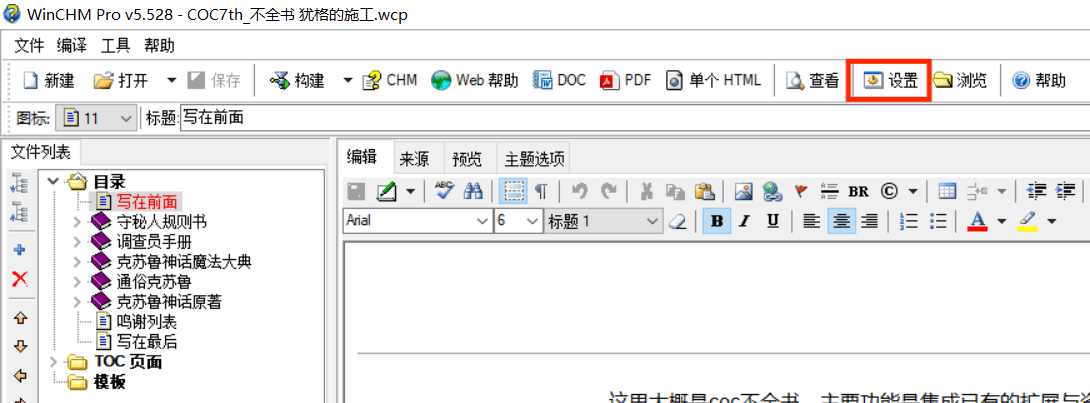
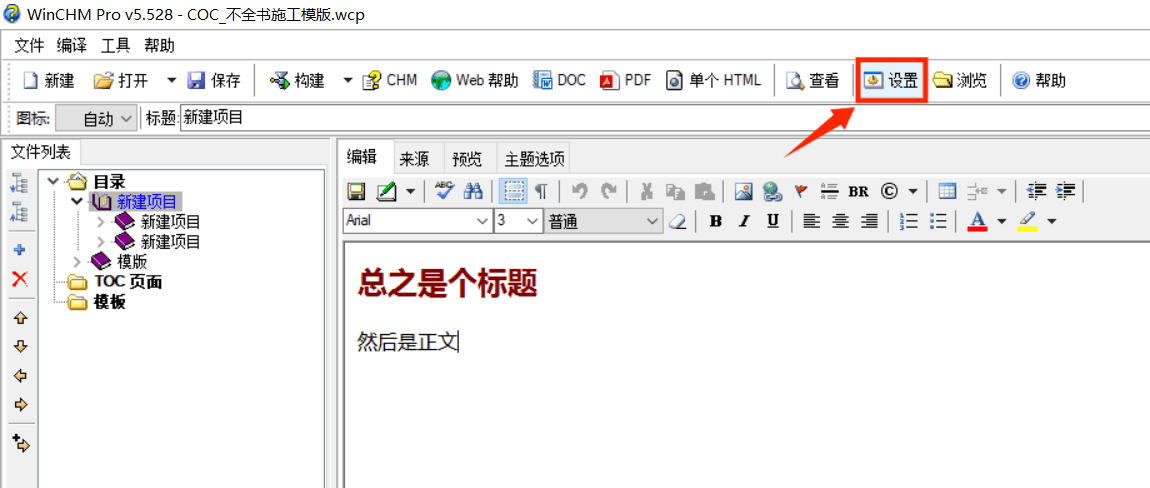
https://github.com/COC7thChm/COC7thChm-helpdocchm.git

Changed region(s): [[0.0, 0.0, 1.0, 1.0], [0.5615, 0.9529, 1.0, 1.0]]

diff --git a/github/在 github 网站上传编辑文件.htm b/github/在 github 网站上传编辑文件.htm
@@ -23,30 +23,30 @@ href="https://Github.com/PAKTS/CoC-Necronomicon">https://Github.com/PAKTS/CoC-Ne
 <P>1.首先，来到不全书库： <A 
 href="https://Github.com/PAKTS/CoC-Necronomicon">https://Github.com/PAKTS/CoC-Necronomicon</A></P>
 <P>然后点击左上方的【Fork】，然后在弹出来的弹窗里点击【Create a new fork】。</P>
-<P><IMG border=1 alt="" src="images/21.png" width="50%"></P>
+<P><IMG border=1 alt="" src="images/21.png" width="70%"></P>
 <P>2.然后弹出这个界面，然后点击【Create fork】按钮。</P>
-<P><IMG border=1 alt="" src="images/22.png" width="50%"></P>
+<P><IMG border=1 alt="" src="images/22.png" width="70%"></P>
 <P>之后会弹出一个仓库界面，当下方图片两个框的位置里，是你的用户名时，你仓库复制成功了。</P>
-<P><IMG border=1 alt="" src="images/33.png" width="50%"></P>
+<P><IMG border=1 alt="" src="images/33.png" width="70%"></P>
 <H2>二.如何在 Github 网站上编辑文件</H2>
 <P>直接在 Github 上面编辑文件相对较复杂，步骤也相对繁琐，我们更推荐在 WinCHM 编辑文件后，再往 
 Github 库里上传新的文件。但我们依然会教你如何在 Github 网站上直接编辑文件。</P>
 <P>1.首先点入你想编辑的文件。点击右上方的笔，就可以开始进行编辑了。</P>
-<P><IMG border=1 alt="" src="images/23.png" width="50%"></P>
+<P><IMG border=1 alt="" src="images/23.png" width="70%"></P>
 <P>2.编辑完后，点击右上方的【Commit changes】按钮。</P>
-<P><IMG border=1 alt="" src="images/24.png" width="50%"></P>
+<P><IMG border=1 alt="" src="images/24.png" width="70%"></P>
 <P>3.之后会弹出这个窗口，然后点击绿色的【Commit changes】按钮。</P>
-<P><IMG border=1 alt="" src="images/25.png" width="50%"></P>
+<P><IMG border=1 alt="" src="images/25.png" width="70%"></P>
 <P>这样就成功修改文件了。</P>
-<P><IMG border=1 alt="" src="images/26.png" width="50%"></P>
+<P><IMG border=1 alt="" src="images/26.png" width="70%"></P>
 <H2>三.如何在 Github 网站上编辑文件</H2>
 <P>1.首先点入你想上传文件的文件夹，先点击右上方的【Add file】，然后在新弹出的弹窗里点击【Upload 
 files】。</P>
-<P><IMG border=1 alt="" src="images/27.png" width="50%"></P>
+<P><IMG border=1 alt="" src="images/27.png" width="70%"></P>
 <P>2.跳转至下方界面后，打开你电脑的文件夹，选中你要上传的文件，拖至虚线框内。</P>
-<P><IMG border=1 alt="" src="images/28.png" width="50%"></P>
+<P><IMG border=1 alt="" src="images/28.png" width="70%"></P>
 <P>3.等文件传输完毕后，滚动鼠标至网页下方，点击绿色的【Commit changes】按钮。</P>
-<P><IMG border=1 alt="" src="images/29.png" width="50%"></P>
+<P><IMG border=1 alt="" src="images/29.png" width="70%"></P>
 <P>之后正常回到仓库主页时，就说明上传文件成功了。</P>
 <H2>四.在网站里新建文件夹或将文件拖入制定的文件夹里</H2>
 <P>Github 网页端不能上传整个文件夹，下面介绍一下如何在 Github 
@@ -54,33 +54,33 @@ files】。</P>
 <P>注意：Github 网页端无法新建空白文件夹。</P>
 <P>1.首先，新建一个文件，或者点入你想放进文件夹里的文件。</P>
 <P>2.然后进入编辑模式，找到编辑框左上方的文件名，在这个蓝框里你可以编辑文件名。</P>
-<P><IMG border=1 alt="" src="images/34.png" width="50%"></P>
+<P><IMG border=1 alt="" src="images/34.png" width="70%"></P>
 <P>3.然后输入 “<STRONG>你想放进去的文件夹或新建的文件夹名字 / 
 ”</STRONG>(不要带引号)。</P>
-<P><IMG border=1 alt="" src="images/37.png" width="50%"></P>
+<P><IMG border=1 alt="" src="images/37.png" width="70%"></P>
 <P>4.然后可以看见文件名前面多了一个文件夹。</P>
-<P><IMG border=1 alt="" src="images/35.png" width="50%"></P>
+<P><IMG border=1 alt="" src="images/35.png" width="70%"></P>
 <P>5.最后点击保持，就成功了。</P>
-<P><IMG border=1 alt="" src="images/36.png" width="50%"></P>
+<P><IMG border=1 alt="" src="images/36.png" width="70%"></P>
 <P>反之如果你想删掉文件夹或者将文件从文件夹里取出，在编辑文件名一栏里输入<STRONG>“../”</STRONG> 
 (不要带引号)。</P>
 <H2>五.删除库里面的文件跟文件夹</H2>
 <P>1.点开你想删掉的文件或者文件夹。</P>
 <P>2.然后点击右上方的【...】按钮。</P>
 <P>3.在新弹窗里选择【Delete directory】，然后保存文件。</P>
-<P><IMG border=1 alt="" src="images/37.png" width="50%"> 
+<P><IMG border=1 alt="" src="images/37.png" width="70%"> 
 </P>
 <H2>六.发送合并请求</H2> 
 <P>以上步骤均只在你仓库里运行，主仓库并没有受到修改，如果想将你的修改穿到主仓库得向主仓库发送合并请求。</P>
 <P>1.首先来到你仓库的主界面。在主页面中点击【Contribute】按钮。</P>
 <P>然后在弹出的新按钮里点击绿色的【Open pull request】按钮。</P>
-<P><IMG border=1 alt="" src="images/30.png" width="50%"></P>
+<P><IMG border=1 alt="" src="images/30.png" width="70%"></P>
 <P>2.之后便会进入这个界面，在蓝框里填写你修改的情况。然后点击【Open pull request】。</P>
-<P><IMG border=1 alt="" src="images/31.png" width="50%"></P>
+<P><IMG border=1 alt="" src="images/31.png" width="70%"></P>
 <P>3.之后便会来到这个界面，当出现红框里面的内容时，就说明可以顺利合并了，等待管理员审核同意就可以了。</P>
-<P><IMG border=1 alt="" src="images/32.png" width="50%"> </P>
+<P><IMG border=1 alt="" src="images/32.png" width="70%"> </P>
 <H2>六.与主文件同步 </H2>
 <P>从主文件库里 frok 出来的文件是无法自动共享主文件库的更新的，这个需要我们手动跟主文件同步。 </P>
 <P>来到你仓库的主页面，然后点击【Sync frok】 </P>
-<P><IMG border=1 alt="" src="images/45.png" width="50%"> </P></STRONG></body>
+<P><IMG border=1 alt="" src="images/45.png" width="70%"> </P></STRONG></body>
 </html>

diff --git a/Winchm/新建项目.htm b/Winchm/新建项目.htm
@@ -14,16 +14,76 @@ html,body {
 
 <body>
 <P><STRONG><FONT color=#800000 size=5>新建项目</FONT></STRONG></P>
-<P>首先，将不全书原有的 wcp改名，改为【COC7th_不全书 
-你的施工现场】。这是为了方便你可以一直拿这个文件施工，也是为了避免合并时跟主仓库冲突。</P>
-<P><IMG alt="" src="images/4.png"> </P>
-<P> 然后点开wcp文件。可以来到这个界面。</P>
-<P><IMG alt="" src="images/5.png"> </P>
+<P>1.首先，在新装的不全书库里找到【COC_不全书施工模版】，右键选择重命名，将其改为【COC7th_不全书 你的施工现场】。这是为了方便你可以一直拿这个文件施工，也是为了避免合并时跟主仓库冲突。</P>
+<P><IMG border=1 src="images/4.png" width="70%"> </P>
+<P>2.然后点开wcp文件。可以来到这个界面。</P>
+<P><IMG border=1 src="images/5.png" width="70%"></P>
+<H2>更改默认模版</H2>
+<P> </P>
 <P>我们先更改 winchm 的默认空白模版。</P>
-<P>先点击上方的【设置】</P>
-<P><IMG alt="" src="images/6.png"></P>
-<P>然后在新弹出的窗口里，当创建一个新的主体内，勾选是是不是【自定义页面】，文件名里是否有“模版\空白页模版.htm”的内容。</P>
-<P>&nbsp;</P>
-<P>如果没有的话，</P>
+<P>1.点击上方的【设置】。</P>
+<P><IMG border=1 src="images/6.png" width="70%"></P>
+<P>2.然后在新弹出的窗口里，当创建一个新的主体内，勾选是是不是【自定义页面】，文件名里是否有“模版\空白页模版.htm”的内容。</P>
+<P>如果没有的话，勾选自定义页面，然后点击文件名右边的【...】，选中“空白页模版.htm”，然后点击确认。</P>
+<P><IMG border=1 src="images/7.png" width="70%"></P>
+<H2>创建新页面</H2>
+<P>1.来到左侧的目录栏，右键点击【新建项目】。然后在弹窗内点击【添加之后】。</P>
+<P><IMG border=1 src="images/8.png" width="70%"></P>
+<P>2.然后就会弹窗这个界面。如果弹出的是这个页面的话，就说明你可以继续施工了，如果不是，请回到上一步：更改默认模版。</P>
+<P><IMG border=1 src="images/9.png" width="70%"></P>
+<H2>正式编辑</H2>
+<P>完成上面的步骤后，我们可以开始正式编辑了，下面我们拿编辑《喵苏鲁的呼唤》的过程为例。</P>
+<P>先要打开我们要复制的文档。</P>
+<P><IMG border=1 src="images/10.png" width="70%"></P>
+<P>
+<TABLE style="WIDTH: 100%; BORDER-COLLAPSE: collapse" borderColor=#000000 
+cellSpacing=0 cellPadding=2 width="100%" bgColor=#fffbf0 border=1><TR>
+<TD>
+<H3>注意事项</H3>
+<P>
+<FONT style="BACKGROUND-COLOR: #fffbf0" >一般来讲，主流上的 COC 相关的书籍都是用 PDF 格式，直接将 PDF 
+      内的文字复制过去，文段经常是分割成一行一行的，编辑起来十分麻烦。</FONT></P>
+<P><FONT style="BACKGROUND-COLOR: #fffbf0">目前推荐的办法是先把 
+      pdf 转为 word 格式，这样的话将文段贴过来时不至于分割成一行一行的了，但是暴力转换成 word 
+      格式可能会出现文章乱码乱序的问题，遇到乱码时请自行校对 PDF 原版内的内容。</FONT></P>
+<P><FONT style="BACKGROUND-COLOR: #fffbf0">如果是复制果园的内容的话，群内有直接将果园帖子文字转成 htm 
+      文件的工具。</FONT></P></TD></TR></TABLE></P>
+<H3>一.更改页面标题</H3>
+<P>右键点击页面，再点击更改标题，就可以更改页面名字了。</P>
+<P><IMG border=1 src="images/11.png" width="70%"></P>
+<H3>二.将文本复制过来</H3>
+<P>首先复制你要的文本。</P>
+<P><IMG border=1 src="images/12.png" width="70%"></P>
+<P>然后选中正文，右键贴贴。</P>
+<P><IMG border=1 alt="" src="images/33.png" width="50%"></P>
+<P>就可以看到我们把内容复制过来了，但是文字的格式还是保留 word 
+文档的格式，不是我们想要的格式，如果文章的格式不统一，这会导致不全书阅读起来十分难看。这就要我们多走一道流传，把文字的属性洗一遍。</P>
+<P><IMG border=1 src="images/13.png" width="70%"></P>
+<P>我们先新建一个笔记本，先将复制的内容贴到这里面。可以看到这段内容失去了它原有的格式。</P>
+<P><IMG border=1 src="images/14.png" width="70%"></P>
+<P>然后我们再剪切笔记本内要复制的这段内容。</P>
+<P><IMG border=1 src="images/15.png" width="70%"></P>
+<P>然后再回到 winchm 将内容贴贴上去，可以看到文字已经变成我们的默认文字了。</P>
+<P><IMG border=1 src="images/16.png" width="70%"></P>
+<H3>三.更改标题</H3>
+<P>接下来，将会叫你如果更改页面内红色的标题。</P>
+<P>首先选中原文标题的部分，然后剪切。</P>
+<P><IMG border=1 src="images/17.png" width="70%"></P>
+<P>然后点击上方栏目中的来源。看这个界面的原代码。</P>
+<P><IMG border=1 src="images/18.png" width="70%"></P>
+<P><IMG border=1 src="images/19.png" width="70%"></P>
+<P><IMG border=1 src="images/20.png" width="70%"></P>
+<P><IMG border=1 src="images/21.png" width="70%"></P>
+<P><IMG border=1 src="images/22.png" width="70%"></P>
+<P><IMG border=1 src="images/23.png" width="70%"></P>
+<P><IMG border=1 src="images/24.png" width="70%"></P>
+<P><IMG border=1 src="images/25.png" width="70%"></P>
+<P><IMG border=1 src="images/26.png" width="70%"></P>
+<P><IMG border=1 src="images/27.png" width="70%"></P>
+<P><IMG border=1 src="images/28.png" width="70%"></P>
+<P><IMG border=1 src="images/29.png" width="70%"></P>
+<P><IMG border=1 src="images/30.png" width="70%"></P>
+<P><IMG border=1 src="images/31.png" width="70%"></P>
+<P><IMG border=1 src="images/32.png" width="70%"></P>
 </body>
 </html>

diff --git a/github/利用git上传编辑文件.htm b/github/利用git上传编辑文件.htm
@@ -43,56 +43,56 @@ href="https://Github.com/stayor/git-gui-zh">https://Github.com/stayor/git-gui-zh
 <P>2.然后点击右上方的【代码（code）】，然后你可以看到 HTTPS 下有一串网址，这就是你的 Github 
 库的网站地址，点击右边的那个方块，就可以复制你的储存库地址了。       
 </P>
-<P><IMG border=1 alt="" src="images/50.png" width="50%">       
+<P><IMG border=1 alt="" src="images/50.png" width="70%">       
 </P>
 <H2>  四.利用 Git Gui 克隆文件&nbsp;&nbsp;       
 </H2>
 <P>  1.然后在随便什么地方右键，在弹窗中点击【Open GIt GUI here】。       </P>
-<P><IMG border=1 alt="" src="images/51.jpeg" width="50%"></P>
+<P><IMG border=1 alt="" src="images/51.jpeg" width="70%"></P>
 <P>2.然后在 Git Gui 弹窗内选择【克隆已有版本库】。</P>
-<P><IMG border=1 alt="" src="images/52.png" width="50%"></P>
+<P><IMG border=1 alt="" src="images/52.png" width="70%"></P>
 <P>3.然后参考上方的<STRONG>复制 Github 
 库的网站地址</STRONG>  
 ，将你的储藏库网址贴贴到【源位置】旁边，然后在【目标目录】旁边，先输入你要储藏的地方（如 D 
 盘：D:/），然后再输入一个新名字（要确保你要存的地方不存在这个文件），然后点击下方的克隆。</P>
-<P><IMG border=1 alt="" src="images/53.png" width="50%"></P>
+<P><IMG border=1 alt="" src="images/53.png" width="70%"></P>
 <P>4.当出现这个界面时，就说明你克隆成功了。你接下来就可以在本地编辑仓库的内容了。跟本地电脑一致。</P>
-<P><IMG border=1 alt="" src="images/54.png" width="50%"></P>
+<P><IMG border=1 alt="" src="images/54.png" width="70%"></P>
 <H2>四.利用 Git Gui 上传更改</H2>
 <P>1.首先，你要用右键点击你要上传修改的文件夹，在弹窗中点击【Open GIt GUI here】。 
 然后他会弹出下面的页面，右上方的框内会显示你修改了那些文件。如果显示没有改动的话先点击如何重新扫描，这样他就会刷新界面了。</P>
 <P>2.然后选择缓存改动，正常的话未缓存的改动的框内的内容会消失，已缓存的改动里会显示你更改的文件目录。</P>
-<P><IMG border=1 alt="" src="images/55.png" width="50%"></P>
+<P><IMG border=1 alt="" src="images/55.png" width="70%"></P>
 <P>3.然后在提交右边的白框里写上你改动了什么，然后点击【提交】。</P>
-<P><IMG border=1 alt="" src="images/56.png" width="50%"></P>
+<P><IMG border=1 alt="" src="images/56.png" width="70%"></P>
 <P>4.提交后点击【上传】，然后在新弹出的弹窗内再次点击【上传】。</P>
-<P><IMG border=1 alt="" src="images/57.png" width="50%"></P>
+<P><IMG border=1 alt="" src="images/57.png" width="70%"></P>
 <P>5.当新弹窗是这个结果时，就说明你修改成功了。</P>
-<P><IMG border=1 alt="" src="images/58.png" width="50%"></P>
+<P><IMG border=1 alt="" src="images/58.png" width="70%"></P>
 <H2>五.用 Git Gui 更新本地储藏库</H2>
 <P>本地的储藏库无法自动更新网络不全书主库的内容，这需要我们手动更新。</P>
 <P>点击上方的【远程库】，然后选择【从...获取】，最后点击【origin】就好了。</P>
-<P><IMG border=1 alt="" src="images/59.jpeg " width="50%"></P>
+<P><IMG border=1 alt="" src="images/59.jpeg " width="70%"></P>
 <H2>六.在 Visual Code 里直接上传文件</H2>
 <P>如果你是用 Visual Code 来辅助编辑文件的话，下载 git 后，Visual Code 
 会侧栏会出现一个跟树枝一样的东西，这个代表 Visual Code&nbsp;成功装上了&nbsp;Git 插件，你可以在 Visual Code 内直接上传文件了。</P>
-<P><IMG border=1 alt="" src="images/60.png" width="50%"></P>
+<P><IMG border=1 alt="" src="images/60.png" width="70%"></P>
 <P>但有时会出现他一直上传但没成功的情况，这是因为你的 Visual Code&nbsp;限制了 Git 
 上传文件的行为，这个时候要你改 Visual Code&nbsp;的设置。</P>
 <P>1.首先，点击 Visual Code&nbsp;右下方的齿轮，然后点击【设置】。</P>
-<P><IMG border=1 alt="" src="images/61.png" width="50%"></P>
+<P><IMG border=1 alt="" src="images/61.png" width="70%"></P>
 <P>2.然后在设置界面的搜索框里面搜索“Use Editor As Commit 
 Input”，然后将下方红框内的勾选取消掉。</P>
-<P><IMG border=1 alt="" src="images/62.png" width="50%"></P>
+<P><IMG border=1 alt="" src="images/62.png" width="70%"></P>
 <P>3.然后再次点击 Git 
 插件按钮，点击【提交】，接下来会弹出搜索框填入你提交的仓库网站，在红框内填入你储藏库的网址，然后回车。关于如何获得自己的储藏库网站，参考上方的<STRONG>复制 
 Github 库的网站地址 。</STRONG></P>
-<P><IMG border=1 alt="" src="images/63.png" width="50%"></P>
+<P><IMG border=1 alt="" src="images/63.png" width="70%"></P>
 <P>4.当侧栏出现这种内容时，就说明你提交成功了，然后点击同步更改就可以正式把你的修改同步到网络上了。</P>
-<P><IMG border=1 alt="" src="images/64.png" width="50%"></P>
+<P><IMG border=1 alt="" src="images/64.png" width="70%"></P>
 <P>
 <TABLE style="WIDTH: 100%; BORDER-COLLAPSE: collapse" borderColor=#000000 
-cellSpacing=0 cellPadding=2 width="100%" bgColor=#fffbf0 border=1>
+cellSpacing=0 cellPadding=2 width="70%" bgColor=#fffbf0 border=1>
   
   <TR>
     <TD>

diff --git a/如何开始编辑不全书/如何开始编辑不全书.htm b/如何开始编辑不全书/如何开始编辑不全书.htm
@@ -35,43 +35,63 @@ html,body {
 (dayanzai.me) ：<A 
 href="https://www.dayanzai.me/winchm.html">https://www.dayanzai.me/winchm.html</A>         
       </P>
-<H2>利用 chm 文件进行编辑</H2>
+<P>
+<TABLE style="WIDTH: 100%; BORDER-COLLAPSE: collapse" borderColor=#000000 
+cellSpacing=0 cellPadding=2 width="100%" bgColor=#fffbf0 border=1>
+  
+  <TR>
+    <TD>
+      <H3><FONT color=#ff0000>注意！！！</FONT></H3>
+      <P>  <FONT style="BACKGROUND-COLOR: #fffbf0">虽然 PDF 文件、Word 文件、Ex 文件可以导出 html 文件，这些 
+      html 文件也可以汇入 chm 文件，但是用两个文件转出的 html 
+      文件代码过于复杂，转过去后极难跟其他页面的格式统一，且转过去的文件内无用代码太多，而有用代码都十分零散。还可能会遇上各种 
+      bug。所以为了照顾后期，也是为了减少各位的工程量，<FONT color=#ff0000>不要用 PDF、Word、EX 转的 html 
+      文件！</FONT></FONT> 更不要把这些文件内的文字直接复制过来。关于如何洗掉多余的格式，请查看<A 
+      href="../Winchm/新建项目.htm">更改标题</A> 
+      的内容。        
+        
+       
+          
+</P></TD></TR></TABLE>         
+      </P>
+<H2>利用 chm 文件进行编辑         
+      </H2>
 <H3>一. 在 WinCHM 打开&nbsp;chm 文件</H3>
 <P>首先，你要有一份 chm 文件，打开WinCHM。</P>
 <P>1.首先点击右上角的打开</P>
-<P><IMG border=1 alt="" src="images/1.png" width="50%" ></P>
+<P><IMG border=1 alt="" src="images/1.png" width="70%" ></P>
 <P>2.点击你要编辑的chm文件，然后在下方点击打开。</P>
-<P><IMG border=1 alt="" src="images/2.png" width="50%"></P>
+<P><IMG border=1 alt="" src="images/2.png" width="70%"></P>
 <P>3.确定勾选的是<STRONG>打开现有已编译的 HTML 帮助文件</STRONG>。然后继续点击确认。</P>
 <P>*注：这里推荐将项目文件夹位置改到系统 D 盘，因为 C 
 盘十分不稳定，可能有意外清空文件的风险。这意味着你的编辑成果可能会全部消失，找都找不回的那种。关于如何修改文件夹路径，请看下方。</P>
 <P><IMG border=1 alt="" 
-src="images/3.png" width="50%"></P>
+src="images/3.png" width="70%"></P>
 <P>如果要修改文件夹路径的话，首先在你想保存的位置建立一个新的文件夹，然后回到编辑器，点击项目文件夹右边的方框，然后在弹出的界面里选中你要保存到的文件夹，最后点击确认。当项目文件夹里文件夹里的路径改成你选中的文件夹的路径时，这就说明你修改成功了。</P>
-<P><IMG border=1 alt="" src="images/10.png" width="50%"></P>
-<P><IMG border=1 alt="" src="images/11.png" width="50%"></P>
+<P><IMG border=1 alt="" src="images/10.png" width="70%"></P>
+<P><IMG border=1 alt="" src="images/11.png" width="70%"></P>
 <P>然后就可以开始编辑&nbsp;chm 文件了,关于使用 WinCHM 编辑器的更多细节，在<STRONG>使用 
 WinCHM 进行编辑</STRONG> 页面里查看。</P>
-<P><IMG border=1 alt="" src="images/4.png" width="50%"></P>
+<P><IMG border=1 alt="" src="images/4.png" width="70%"></P>
 <H3>二.保存并打开编辑后的 CHM 文件</H3>
 <P>离开文件时，会有弹窗询问你是否保持更改，点击是即可更改文件，也可以点击右上角的保存，来手动保存文件。</P>
-<P><IMG border=1 alt="" src="images/5.png" width="50%"></P>
-<P><IMG border=1 alt="" src="images/6.png" width="50%"></P>
+<P><IMG border=1 alt="" src="images/5.png" width="70%"></P>
+<P><IMG border=1 alt="" src="images/6.png" width="70%"></P>
 <P>点击上方的浏览，就可以找到编辑文件对应的位置，之后再次编辑时，点击 wcp 
 文件，就可以继续进行编辑了。</P>
-<P><IMG border=1 alt="" src="images/7.png" width="50%">  
+<P><IMG border=1 alt="" src="images/7.png" width="70%">  
 </P>
-<P><IMG border=1 alt="" src="images/8.png" width="50%">  
+<P><IMG border=1 alt="" src="images/8.png" width="70%">  
 </P>
 <P><IMG border=1 alt="" 
-src="images/9.png" width="50%"></P>
+src="images/9.png" width="70%"></P>
 <H3>三.导出编辑后的 chm 文件</H3>
 <P>1.点击上方的构建。</P>
-<P><IMG border=1 alt="" src="images/12.png" width="50%"></P>
+<P><IMG border=1 alt="" src="images/12.png" width="70%"></P>
 <P>2.然后点击开始，如果要修改导出 chm 
 文件所处的文件夹的话，点击边缘文件最右边的方框，选中你要保存的文件夹。</P>
-<P><IMG border=1 alt="" src="images/13.png" width="50%"></P>
+<P><IMG border=1 alt="" src="images/13.png" width="70%"></P>
 <P>3.正常的话，之后就能导出新的 chm 文件了，如果遇到问题，可在群里询问解决办法。</P>
-<P><IMG border=1 alt="" src="images/14.png" width="50%"></P>
+<P><IMG border=1 alt="" src="images/14.png" width="70%"></P>
 </body>
 </html>

diff --git a/github/用github参与编辑.htm b/github/用github参与编辑.htm
@@ -20,7 +20,7 @@ html,body {
 <P>不全书使用 Github 来存储不全书里的文件。有能力的话，我们建议将你编辑、新建的文件，上传到 Github 的 COC 不全书库里。</P>
 <P>
 <TABLE style="WIDTH: 100%; BORDER-COLLAPSE: collapse" borderColor=#000000 
-cellSpacing=0 cellPadding=2 width="100%" bgColor=#fffbf0 border=1>
+cellSpacing=0 cellPadding=2 width="70%" bgColor=#fffbf0 border=1>
   
   <TR>
     <TD>
@@ -32,13 +32,13 @@ cellSpacing=0 cellPadding=2 width="100%" bgColor=#fffbf0 border=1>
 <P>1.&nbsp; 首先随便点入一个 Github 网页： <A 
 href="https://Github.com/PAKTS/CoC-Necronomicon">https://Github.com/PAKTS/CoC-Necronomicon</A>  
 <P>2.然后点击右上方的【Sign up】
-<P><IMG border=1 alt="" src="images/15.png" width="50%" ></P>
+<P><IMG border=1 alt="" src="images/15.png" width="70%" ></P>
 <P>3.然后回进入注册界面，从上到下会分别让你填写【注册邮箱】、【密码】、【用户名】</P>
 <P>下面的勾选是询问你是否接收产品更新和公告，勾不勾都可以。</P>
-<P><IMG border=1 alt="" src="images/16.png" width="50%" ></P>
+<P><IMG border=1 alt="" src="images/16.png" width="70%" ></P>
 <P>
 <TABLE style="WIDTH: 100%; BORDER-COLLAPSE: collapse" borderColor=#000000 
-cellSpacing=0 cellPadding=2 width="100%" bgColor=#fffbf0 border=1>
+cellSpacing=0 cellPadding=2 width="70%" bgColor=#fffbf0 border=1>
   
   <TR>
     <TD>
@@ -71,19 +71,19 @@ cellSpacing=0 cellPadding=2 width="100%" bgColor=#fffbf0 border=1>
 </DIV></LI></UL></TD></TR></TABLE></P>
 <P>
 4.验证你是否是人类（你是深潜者之类的非人类智慧生物也可以，只要你会做这道题）。</P>
-<P><IMG border=1 alt="" src="images/17.png" width="50%" ></P>
+<P><IMG border=1 alt="" src="images/17.png" width="70%" ></P>
 <P>5.然后 Github 会朝你邮箱发验证码。</P>
-<P><IMG border=1 alt="" src="images/18.png" width="50%" ></P>
+<P><IMG border=1 alt="" src="images/18.png" width="70%" ></P>
 <P>6.进入你的邮箱点开 Github 发的邮件（QQ邮箱的网址为：<A 
 href="https://mail.qq.com">https://mail.qq.com</A>  ），蓝框内的数字就是你本次要输入的验证码，复制后点击下方的【Open GitHub】按钮就可返回界面。</P>
 <P>  贴贴验证码然后回车。</P>
-<P><IMG border=1 alt="" src="images/19.png" width="50%" ></P>
+<P><IMG border=1 alt="" src="images/19.png" width="70%" ></P>
 <P>7.然后就会进入这个界面。</P>
 <P>在【Username or email 
 address】下方的框里填你的注册邮箱或者用户名，在【Password】下方的框里填写你的密码，最后点击【Sign in】登录。</P>
 <P>如果登录时一直显示密码错误点击【Password】旁边的【Forgot 
 password？】重置你的账户密码。</P>
-<P><IMG border=1 alt="" src="images/20.png" width="50%" ></P>
+<P><IMG border=1 alt="" src="images/20.png" width="70%" ></P>
 <P>如果之后正常回到了 Github 网站，这就说明你的注册成功了。</P>
 <P>往&nbsp;Github 库里上传文件有多种方式，我们会在下面的子条目里举例一些方法进行说明。</P></body>
 </html>

diff --git a/Winchm/用Winchm编辑不全书.htm b/Winchm/用Winchm编辑不全书.htm
@@ -15,16 +15,16 @@ html,body {
 <body>
 <P><STRONG><FONT color=#800000 size=5>用 Winchm 编辑不全书</FONT></STRONG></P>
 <P>在如何编辑不全书那块，我们已经讲了如何用 winchm 打开 chm 文件了，还介绍了如何用 Github 在本地获得不全书文件，以及上传文件。下面我们将会在认定你看过并会使用 chm 
-文件，且已经看完上面的内容后，跟你介绍如何编辑不全书。</P>
+文件，会基础的编辑文字能力（例如会选中文字、复制、贴贴，如果不会先到网络上搜索），且已经看完上面的内容后，跟你介绍如何编辑不全书。</P>
 <H2>    
 不全书的文件构成</H2>
 <P>    
 不全书主要由两个文件构成：</P>
-<P><IMG border=1 alt="" src="images/1.png" width="50%">    
+<P><IMG border=1 alt="" src="images/1.png" width="70%">    
 </P>
 <P>    
 第一种是后缀是&nbsp;htm 的文件，这个记录了不全书内页面的内容，你现在看到的一字一画，都是这个文件记录在内的，他决定了这个界面的布局。</P>
-<P><IMG border=1 alt="" src="images/2.png" width="50%">    
+<P><IMG border=1 alt="" src="images/2.png" width="70%">    
  
 </P>
 <P>    
